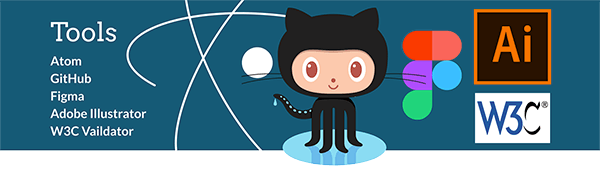
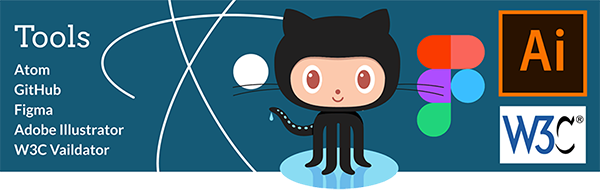
centers illu

diff --git a/homepage.html b/homepage.html
@@ -51,7 +51,7 @@
           <!--startbild-->
           <div class="margin-top-30">
             <picture>
-              <source srcset="img/homepage/workstart_homepage1_mobile.jpg" media="(max-width:767px)">
+              <source srcset="img/homepage/workstart_homepage1-mobile.jpg" media="(max-width:767px)">
               <img src="img/homepage/workstart_homepage_1.jpg" alt="Portfolio Page">
             </picture>
           </div>
@@ -136,10 +136,10 @@
           <p><b>My own Logo/Favicon.</b> I used Adobe Illustrator to create an illustration from an image I already use with Behance and LinkedIn, to create an unique style and to show another skill that I have. The illustration represents a location
             icon to show that with me is the right place for a collaboration.</p>
         </div>
-
-          <img src="img/illus/illu_drop_xsmall_1.svg" class="center margin-top-30 banner-image" alt="Illustration">
-
-        <div class="margin-top-80">
+        <div class="row center">
+          <img src="img/illus/illu_drop_xsmall_1.svg" class="margin-top-30 banner-image" alt="Illustration">
+        </div>
+        <div class="margin-top-60">
           <h4>I SELECTED</h4>
           <p><b>Images, gathered and rewrote project text, chose a burger-Icon for mobile.</b></p>
         </div>
@@ -196,10 +196,12 @@
           <h4>FF-UX.COM IS ONLINE!</h4>
           <p><b>Please be merciful, I will not be a super programmer soon, but I do know now how the wind blows in the developers cellar.</b></p>
         </div>
+        <div class="margin-top-30">
         <picture>
           <source srcset="img/homepage/high_fid_neu_mobile.png" media="(max-width:767px)">
           <img src="img/homepage/high_fid_neu_desk.png" alt="High Fidelity">
         </picture>
+      </div>
         <div class="margin-top-80 center padding-bottom-30">
           <h3><b>Thanks for Reading!</b></h3>
         </div>
